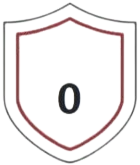
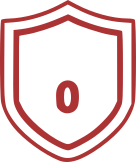
Updated styling of buttons on report page, and updated all images on homepage.

Changed region(s): [[0.0, 0.0, 1.0, 1.0], [0.4118, 0.4938, 0.5882, 0.7099]]

diff --git a/J2Software/styles.css b/J2Software/styles.css
@@ -294,11 +294,6 @@ h1 {
   text-align: center;
 }
 
-.report-button {
-  background-color: #c01010;
-
-}
-
 .report-button:hover {
   background-color: #830f0f;
 }
@@ -479,6 +474,16 @@ dialog::backdrop {
 
 .dark-mode {
   background-image: url(_images/background_image_dark.jpg);
+  color: white;
+}
+
+.dark-mode .report-button {
+  background-color: white;
+  color: black;
+}
+
+.dark-mode .report-button:hover {
+  background-color: #830f0f;
   color: white;
 }
 
